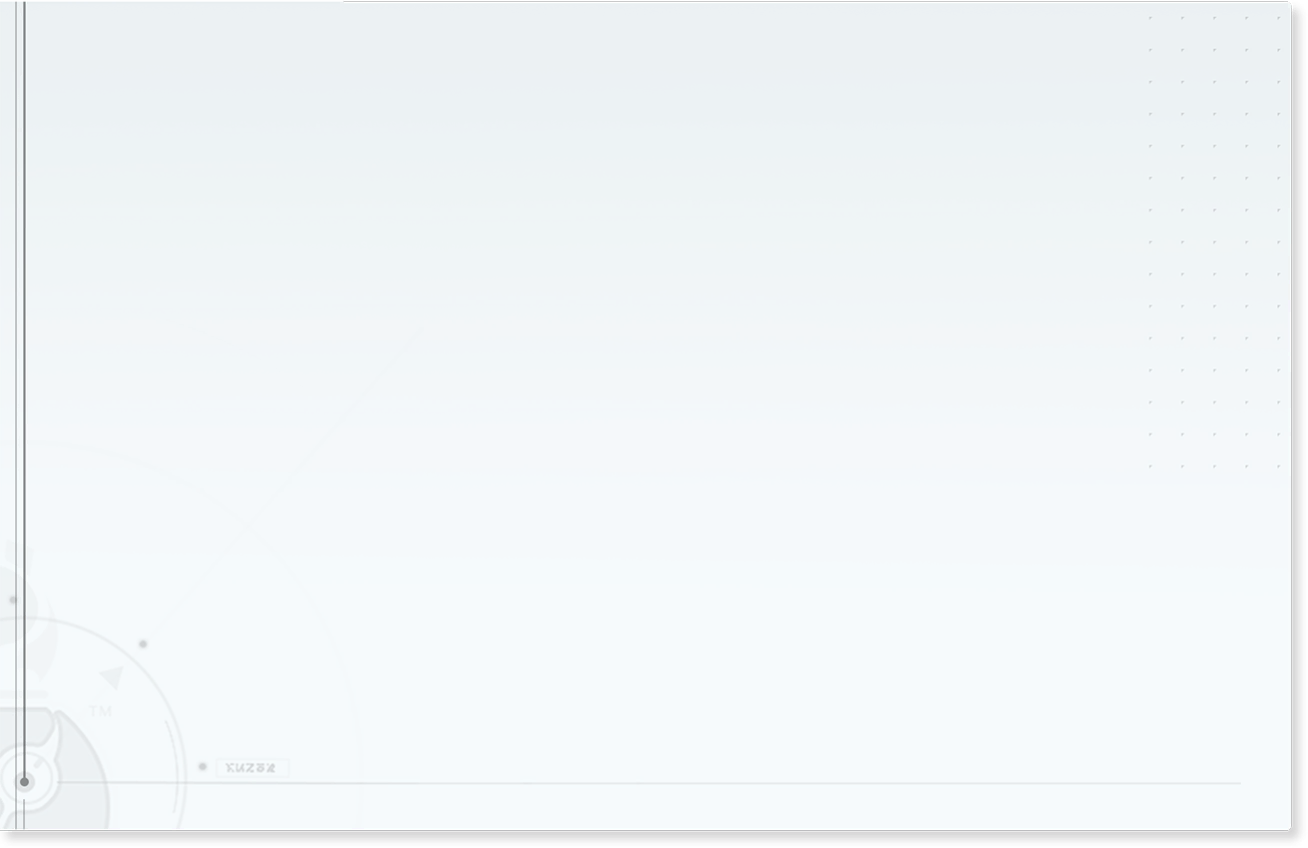
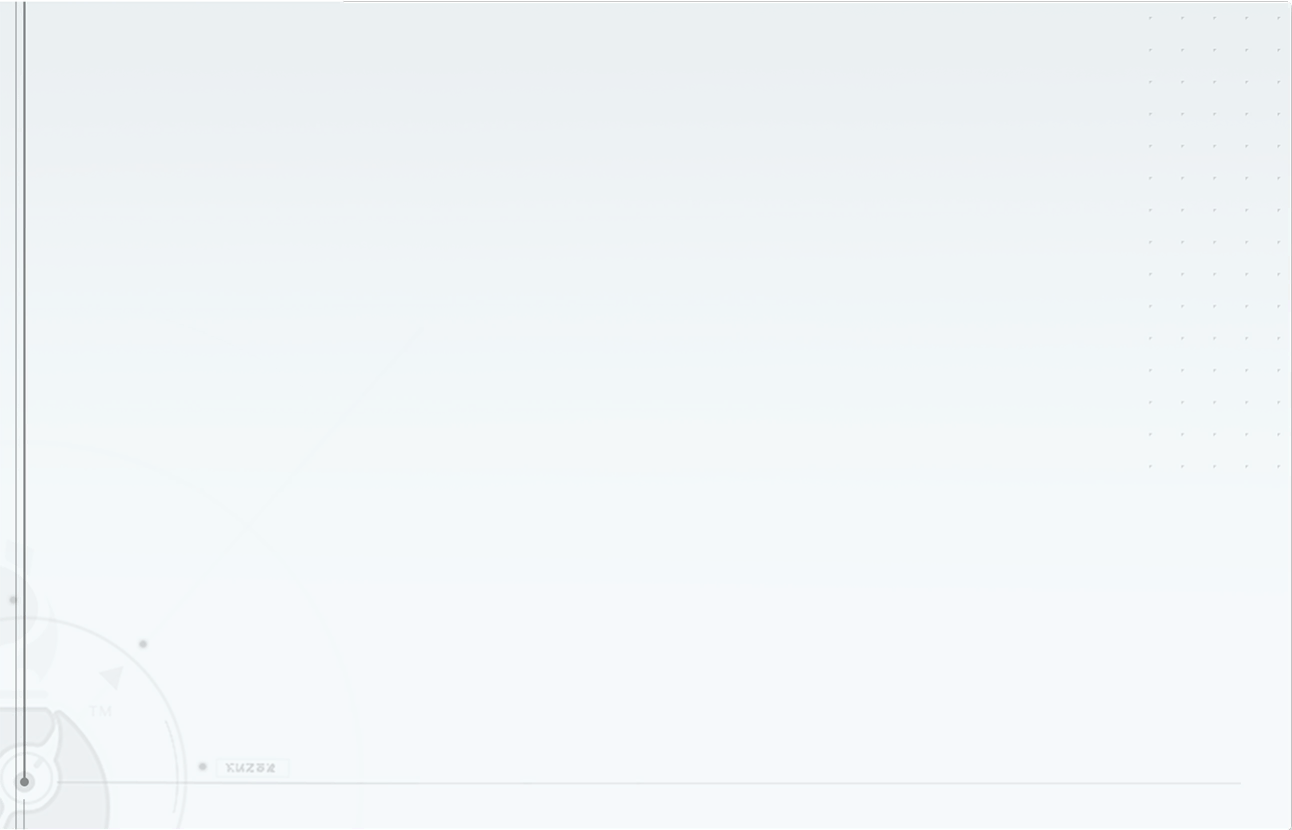
feat: add background setting

diff --git a/src/renderer/stores/appearanceStore.ts b/src/renderer/stores/appearanceStore.ts
@@ -1,0 +1,153 @@
+import { create } from 'zustand'
+import { createJSONStorage, persist } from 'zustand/middleware'
+import BG1 from '@renderer/assets/T_PhoneSystemPanelS.png'
+import BG2 from '@renderer/assets/T_PhoneSystemIconBg02.png'
+import BG3 from '@renderer/assets/T_PhoneSystemIconBg03.png'
+import BG1Pre from '@renderer/assets/T_PhoneSystemIconBg00Small.png'
+import BG2Pre from '@renderer/assets/T_PhoneSystemIconBg02Small.png'
+import BG3Pre from '@renderer/assets/T_PhoneSystemIconBg03Small.png'
+
+export type ChatBackground = {
+  id: string
+  name: string
+  previewSrc: string
+  fullSrc: string
+  description: string
+  obtained: string
+}
+
+export const CHAT_BACKGROUNDS: ChatBackground[] = [
+  {
+    id: 'default',
+    name: '默认背景',
+    previewSrc: BG1Pre,
+    fullSrc: BG1,
+    description: '飞讯默认聊天背景',
+    obtained: '默认获得'
+  },
+  {
+    id: 'sweet-coffee-time',
+    name: '甜咖时光',
+    previewSrc: BG2Pre,
+    fullSrc: BG2,
+    description: '研磨的时光中，唯有伙伴的笑语与咖啡的香气与你共享此刻的静谧。',
+    obtained: '购买飞讯特惠礼包 · 甜咖的金印后解锁'
+  },
+  {
+    id: 'i-miss-you-all-the-time',
+    name: 'I miss you all the time',
+    previewSrc: BG3Pre,
+    fullSrc: BG3,
+    description: 'I Really Want to Stay At Your House.',
+    obtained: '在幻梦珊瑚商店购买后解锁'
+  }
+]
+
+const BACKGROUND_BY_ID = new Map(CHAT_BACKGROUNDS.map((background) => [background.id, background]))
+const DEFAULT_BACKGROUND_ID = CHAT_BACKGROUNDS[0].id
+
+type AppearanceStore = {
+  appearance: Appearance
+  setBackgroundId: (backgroundId: string) => void
+}
+
+type Appearance = {
+  backgroundId: string
+}
+
+type PersistedAppearanceState = Pick<AppearanceStore, 'appearance'>
+
+/**
+ * @description 从背景列表中解析可用的背景 ID，不合法时回退为默认背景。
+ * @param backgroundId 待解析的背景 ID，允许为空或未知值。
+ * @returns 可安全使用的背景 ID。
+ */
+function resolveBackgroundId(backgroundId: string | null | undefined): string {
+  if (!backgroundId || !BACKGROUND_BY_ID.has(backgroundId)) {
+    return DEFAULT_BACKGROUND_ID
+  }
+
+  return backgroundId
+}
+
+/**
+ * @description 从持久化的外观状态中解析可用的外观配置，并确保背景 ID 合法。
+ * @param persistedState 由 Zustand persist 反序列化后的状态片段。
+ * @param fallbackAppearance 持久化数据不可用时使用的回退外观配置。
+ * @returns 已校验可用的外观配置。
+ */
+function resolvePersistedAppearance(
+  persistedState: unknown,
+  fallbackAppearance: Appearance
+): Appearance {
+  if (!persistedState || typeof persistedState !== 'object') {
+    return fallbackAppearance
+  }
+
+  const candidateState = persistedState as Partial<PersistedAppearanceState>
+  return {
+    ...fallbackAppearance,
+    backgroundId: resolveBackgroundId(candidateState.appearance?.backgroundId)
+  }
+}
+
+/**
+ * @description 合并持久化外观状态与当前 store 状态，并确保恢复后的外观配置始终有效。
+ * @param persistedState 由 Zustand persist 反序列化后的状态片段。
+ * @param currentState 当前初始化完成的 appearance store 状态。
+ * @returns 已合并且经过背景 ID 校验的外观状态。
+ */
+function mergePersistedAppearanceState(
+  persistedState: unknown,
+  currentState: AppearanceStore
+): AppearanceStore {
+  return {
+    ...currentState,
+    appearance: resolvePersistedAppearance(persistedState, currentState.appearance)
+  }
+}
+
+/**
+ * @description 根据背景 ID 获取完整背景元数据，不合法时回退为默认背景。
+ * @param backgroundId 待查找的背景 ID。
+ * @returns 匹配到的背景配置。
+ */
+export function getChatBackgroundById(backgroundId: string): ChatBackground {
+  return BACKGROUND_BY_ID.get(backgroundId) ?? CHAT_BACKGROUNDS[0]
+}
+
+export const useAppearanceStore = create<AppearanceStore>()(
+  persist(
+    (set) => ({
+      appearance: {
+        backgroundId: DEFAULT_BACKGROUND_ID
+      },
+      setBackgroundId: (backgroundId) => {
+        const nextBackgroundId = resolveBackgroundId(backgroundId)
+        set({
+          appearance: {
+            backgroundId: nextBackgroundId
+          }
+        })
+      }
+    }),
+    {
+      name: 'appearance-store',
+      storage: createJSONStorage(() => localStorage),
+      partialize: (state): PersistedAppearanceState => ({
+        appearance: state.appearance
+      }),
+      merge: (persistedState, currentState) =>
+        mergePersistedAppearanceState(persistedState, currentState)
+    }
+  )
+)
+
+/**
+ * @description 从 appearance store 中选出当前生效的聊天背景配置。
+ * @param state 聊天外观状态。
+ * @returns 当前选中的背景配置。
+ */
+export function selectActiveBackground(state: AppearanceStore): ChatBackground {
+  return getChatBackgroundById(state.appearance.backgroundId)
+}

diff --git a/src/renderer/components/display/BackgroundImagePanel.tsx b/src/renderer/components/display/BackgroundImagePanel.tsx
@@ -1,29 +1,58 @@
-import BG1 from '@renderer/assets/T_PhoneSystemPanelS.png'
-import BG1Pre from '@renderer/assets/T_PhoneSystemIconBg00Small.png'
 import { type ReactElement } from 'react'
+import {
+  CHAT_BACKGROUNDS,
+  selectActiveBackground,
+  useAppearanceStore
+} from '@renderer/stores/appearanceStore'
+import { cn } from '@renderer/utils'
 
-/**
- * @description Renders the background image settings content shown in the display panel.
- * @returns The background image settings panel.
- */
 export function BackgroundImagePanel(): ReactElement {
+  const activeBackground = useAppearanceStore(selectActiveBackground)
+  const setBackgroundId = useAppearanceStore((state) => state.setBackgroundId)
+
   return (
-    <div className="flex h-full w-full gap-2 px-8 py-4">
-      <div className="grid shrink-0 grid-cols-2 gap-2">
-        {[BG1Pre].map((bg, idx) => (
-          <img
-            key={idx}
-            src={bg}
-            className="w-46 rounded-md border-2 border-white/20 object-contain hover:border-amber-200"
-            alt=""
-          />
+    <div className="flex h-full w-full gap-8">
+      <div className="my-2 grid h-fit shrink-0 grid-cols-2 gap-2">
+        {CHAT_BACKGROUNDS.map((bg) => (
+          <button
+            key={bg.id}
+            type="button"
+            className={cn(
+              'group relative overflow-hidden rounded-md border-2 transition-all',
+              activeBackground.id === bg.id
+                ? 'border-amber-200 shadow-[0_0_0_1px_rgba(253,230,138,0.5)]'
+                : 'border-white/20 hover:border-amber-200/70'
+            )}
+            onClick={() => setBackgroundId(bg.id)}
+          >
+            <img
+              src={bg.previewSrc}
+              alt={bg.name}
+              className="h-fit w-46 object-contain transition-transform duration-200 group-hover:scale-[1.02]"
+            />
+            <div
+              className={cn(
+                'absolute inset-x-0 bottom-0 bg-black/45 px-2 py-1 text-left text-xs text-white/80 transition-opacity',
+                activeBackground.id === bg.id ? 'opacity-100' : 'opacity-0 group-hover:opacity-100'
+              )}
+            >
+              {bg.name}
+            </div>
+          </button>
         ))}
       </div>
       <div className="flex-1 text-white">
-        <p className="my-2">默认背景</p>
-        <img src={BG1} className="h-96 object-contain" alt="" />
-        <p className="mb-2 border-b border-white/20 pt-2 pb-1">飞讯默认聊天背景</p>
-        <p className="text-xs text-gray-300/80">默认获得</p>
+        <p className="my-2">{activeBackground.name}</p>
+        <div className="relative inline-block h-96 w-160 overflow-hidden">
+          <img
+            src={activeBackground.fullSrc}
+            alt={activeBackground.name}
+            className="block h-full w-full object-cover object-center"
+          />
+        </div>
+
+        <p className="mb-2 border-b border-white/20 pt-2 pb-1">{activeBackground.description}</p>
+        <p className="text-xs text-gray-300/80">{activeBackground.obtained}</p>
       </div>
     </div>
   )

diff --git a/src/renderer/components/display/index.tsx b/src/renderer/components/display/index.tsx
@@ -2,12 +2,9 @@ import { type ReactElement } from 'react'
 import SettingIcon from '@renderer/assets/settingIcon.png'
 import CloseIcon from '@renderer/components/close'
 import { BackgroundImagePanel } from './BackgroundImagePanel'
+import { Separator } from '@renderer/components/ui/separator'
+import Bg from '@renderer/assets/T_VisionEditDescBg.png'
 
-/**
- * @description Renders the display settings overlay that now only exposes background image options.
- * @param props.onClose Closes the display settings overlay.
- * @returns The display settings view.
- */
 export default function Display({ onClose }: { onClose: () => void }): ReactElement {
   return (
     <div className="flex h-full w-full flex-col overflow-hidden font-sans">
@@ -19,7 +16,19 @@ export default function Display({ onClose }: { onClose: () => void }): ReactElem
         <CloseIcon className="absolute right-6 bottom-2" onClick={onClose} />
       </div>
 
-      <div className="h-148 overflow-hidden">
+      <div className="flex h-full w-full flex-col overflow-hidden px-8 py-1">
+        <div className="relative flex h-fit w-full items-center gap-2 rounded-full text-xl text-white/60">
+          <img
+            src={Bg}
+            className="absolute left-0 h-9 w-full rounded-full object-cover object-left"
+          />
+          <div className="z-10 rounded-full bg-[#585858] px-16 py-1">聊天气泡</div>
+
+          <div className="text-foreground z-10 cursor-pointer rounded-full bg-[#b8b8b8] px-16 py-1">
+            聊天背景
+          </div>
+        </div>
+        <Separator className="my-4 opacity-10" />
         <div className="h-full">
           <BackgroundImagePanel />
         </div>

diff --git a/src/renderer/components/area-right.tsx b/src/renderer/components/area-right.tsx
@@ -11,12 +11,12 @@ import { Send, StopCircle } from 'lucide-react'
 import type { ChatRunEvent } from '@shared/chat'
 import { trackUiEvent } from '@renderer/logging'
 import { useCharacterStore } from '@renderer//stores/characterStore'
+import { selectActiveBackground, useAppearanceStore } from '@renderer/stores/appearanceStore'
 import { selectSessionById, useSessionStore } from '@renderer//stores/sessionStore'
 import { selectActiveProfile, useSettingsStore } from '@renderer//stores/settingsStore'
 import { cn } from '@renderer//utils'
-
+import bgBase from '@renderer//assets/T_PhoneSystemPanel_01.png'
 import bgAvatar from '@renderer//assets/avatar-bg.png'
-import bgRight from '@renderer//assets/T_PhoneSystemPanel_01.png'
 import bgChar from '@renderer//assets/T_PhoneSystemModel03.png'
 import bgLine from '@renderer//assets/T_PhoneSystemModel03Line.png'
 import playerAvatar from '@renderer//assets/T_IconRoleHeadCircle256_5_a_UI.png'
@@ -163,7 +163,7 @@ function InputArea({
   }
 
   return (
-    <div className="absolute right-10 bottom-8 left-14 flex h-14 items-center gap-2 rounded-xl border-2 border-[#e5e7eb] bg-white/40 px-2 backdrop-blur-sm transition-colors focus-within:bg-white/90 hover:bg-white/60">
+    <div className="absolute right-10 bottom-8 left-14 z-100 flex h-14 items-center gap-2 rounded-xl border-2 border-[#e5e7eb] bg-white/40 px-2 backdrop-blur-sm transition-colors focus-within:bg-white/90 hover:bg-white/60">
       <input
         ref={inputRef}
         type="text"
@@ -197,6 +197,7 @@ function InputArea({
 
 export default function AreaRight(): ReactElement {
   const activateChar = useCharacterStore((state) => state.activateChar)
+  const activeBackground = useAppearanceStore(selectActiveBackground)
   const activeProfile = useSettingsStore(selectActiveProfile)
   const currentSessionId = useSessionStore((state) => state.currentSessionId)
   const setCurrentSessionId = useSessionStore((state) => state.setCurrentSessionId)
@@ -286,10 +287,17 @@ export default function AreaRight(): ReactElement {
     <div className="relative h-156 w-205">
       <div className="relative h-156 w-205">
         <img
-          src={bgRight}
+          src={bgBase}
           className="absolute top-0 left-0 object-contain drop-shadow-[0_0_0_#ffffff]"
           draggable="false"
         />
+        {!activeBackground.fullSrc.includes('T_PhoneSystemPanelS.png') && (
+          <img
+            src={activeBackground.fullSrc}
+            className="absolute bottom-0 object-contain drop-shadow-[0_0_0_#ffffff]"
+            draggable="false"
+          />
+        )}
 
         <img
           src={bgChar}